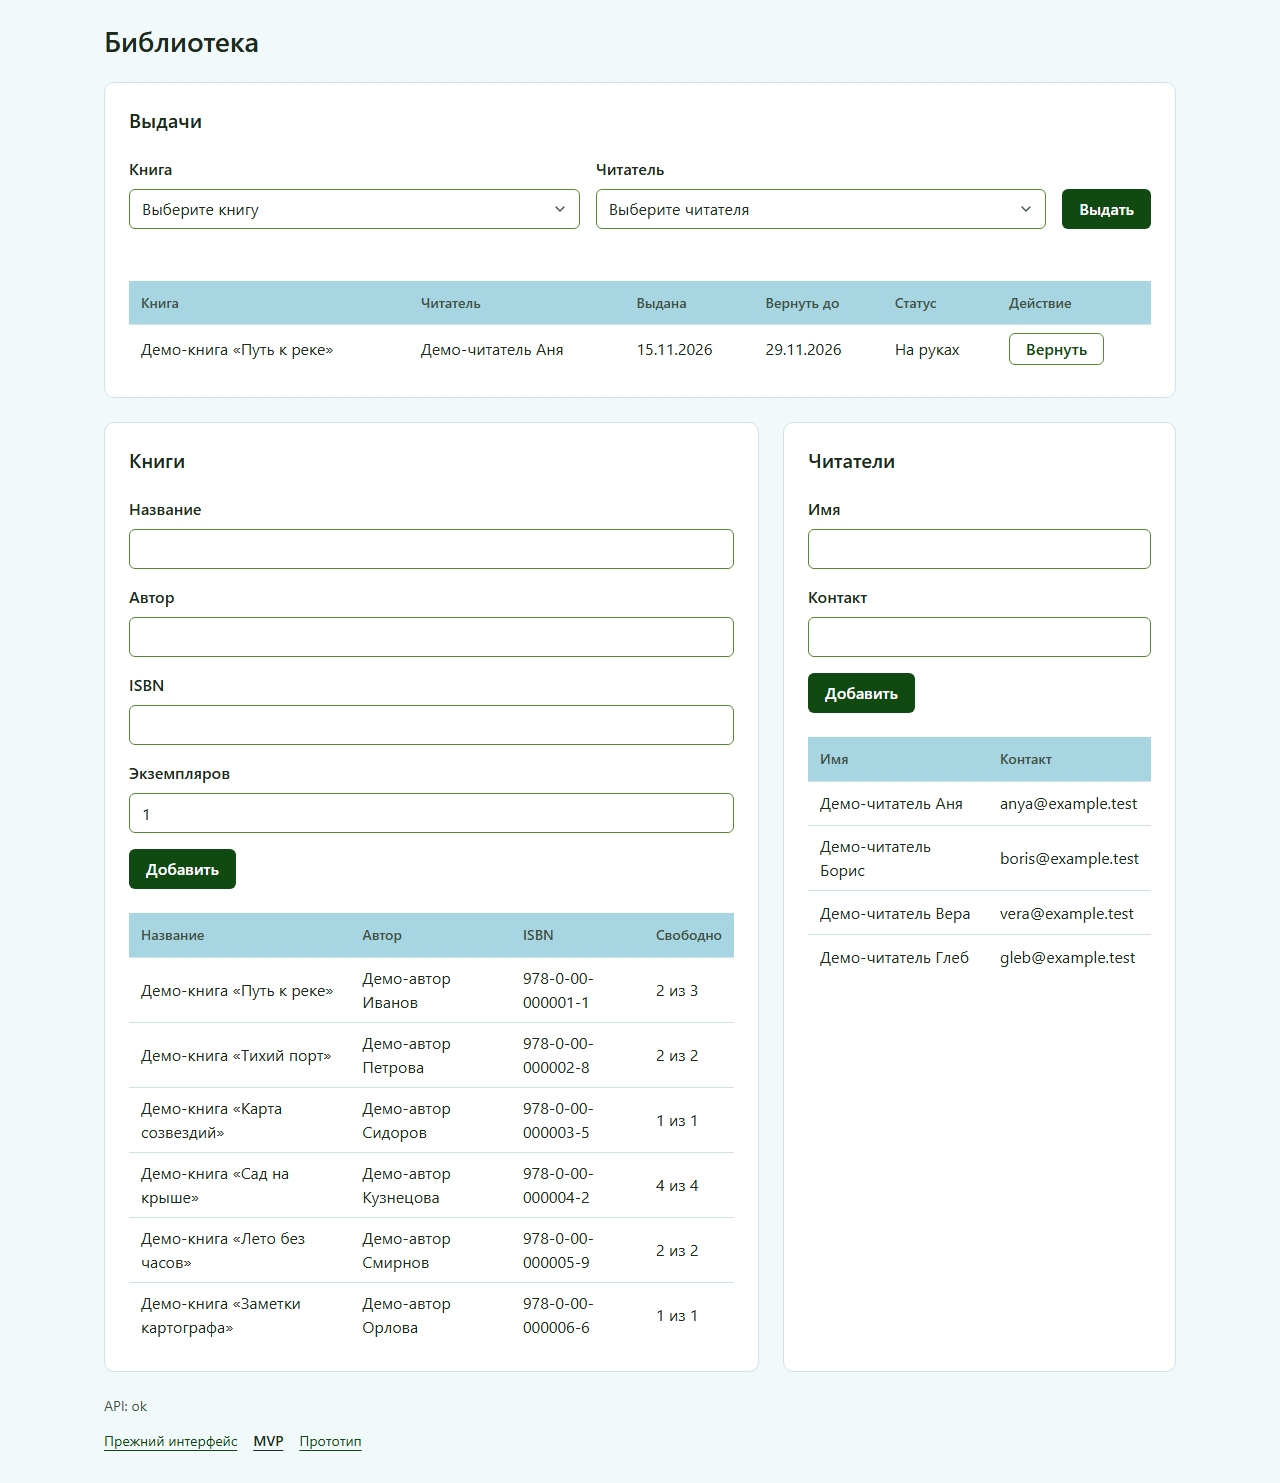
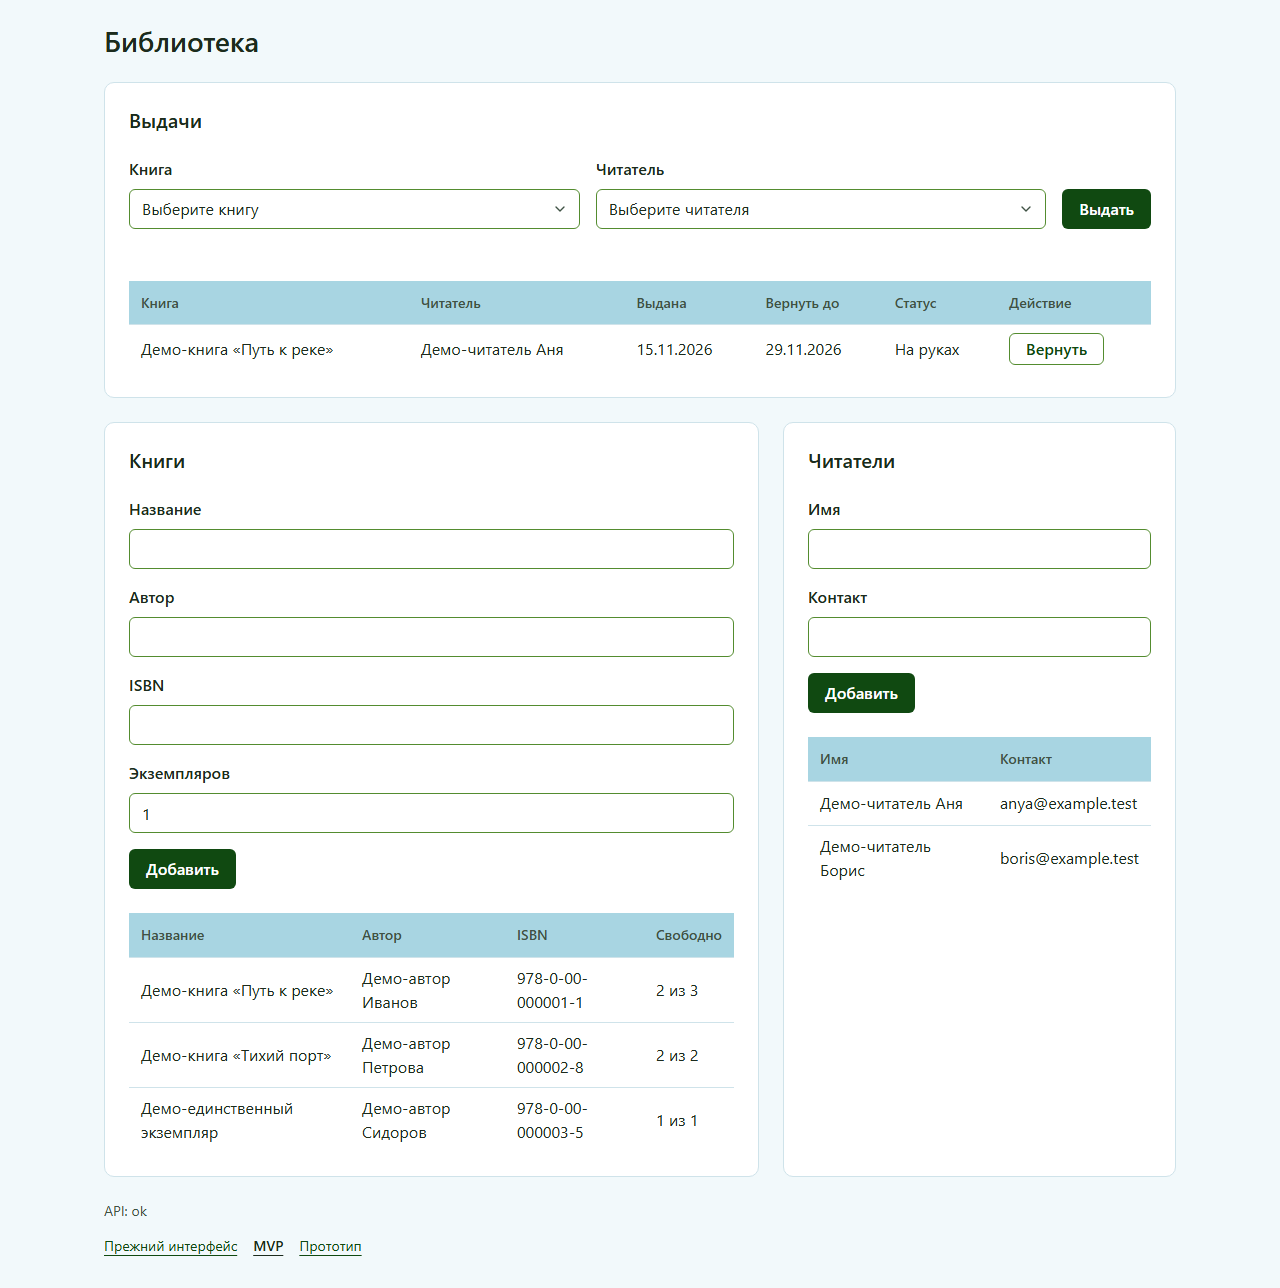
fix(07-08): тест снимков не зависит от seed и настоящих данных
- демо-записи создаются через API, списки на странице фильтруются по их id
- обычный npm run test:e2e на пустом файле данных снова зелёный
- снимки пересняты, в кадре только «Демо-…» и @example.test

diff --git a/tests/e2e/hw4-screenshots.spec.ts b/tests/e2e/hw4-screenshots.spec.ts
@@ -2,13 +2,15 @@ import { expect, test, type Page } from '@playwright/test';
 
 // Снимки MVP (/v2/) и прежнего интерфейса для README «Модуль 4».
 // Каталог test-results вне git; копии лежат в docs/screenshots/hw4-v2-*.png и hw4-old-links.png.
-// Запускать только на копии data/seed.json (T-07-21): перед каждым снимком все строки таблиц
-// книг, читателей и выдач содержат «Демо-», то есть в кадр попадают только данные seed и этого теста.
+// Тест создаёт свои демо-записи через API и показывает на страницах только их: GET-запросы списков
+// пропускают записи с id, полученными при создании. Поэтому он проходит на любом файле данных, а
+// в кадр не попадают настоящие данные (T-07-21). Перед каждым снимком все строки таблиц содержат
+// «Демо-» и контакты оканчиваются на @example.test.
 
 const OUT = 'test-results/hw4/final';
-const SINGLE_BOOK = 'Демо-единственный экземпляр';
 const BOOK_ONE = 'Демо-книга «Путь к реке»';
 const BOOK_TWO = 'Демо-книга «Тихий порт»';
+const SINGLE_BOOK = 'Демо-единственный экземпляр';
 const READER_ONE = 'Демо-читатель Аня';
 const READER_TWO = 'Демо-читатель Борис';
 
@@ -36,12 +38,60 @@ async function shoot(page: Page, name: string, fullPage: boolean) {
   await page.screenshot({ path: `${OUT}/${name}.png`, fullPage });
 }
 
+// Создаёт запись через API и запоминает её id
+async function create(
+  page: Page,
+  url: string,
+  data: Record<string, string | number>,
+  ids: Set<string>,
+) {
+  const response = await page.request.post(url, { data });
+  expect(response.status()).toBe(201);
+  const { id } = (await response.json()) as { id: string };
+  ids.add(id);
+}
+
 test('saves screenshots of v2 and links in the old interface', async ({ page }) => {
+  const bookIds = new Set<string>();
+  const readerIds = new Set<string>();
+
+  const books = [
+    { title: BOOK_ONE, author: 'Демо-автор Иванов', isbn: '978-0-00-000001-1', copies: 3 },
+    { title: BOOK_TWO, author: 'Демо-автор Петрова', isbn: '978-0-00-000002-8', copies: 2 },
+    { title: SINGLE_BOOK, author: 'Демо-автор Сидоров', isbn: '978-0-00-000003-5', copies: 1 },
+  ];
+  for (const book of books) await create(page, '/api/books', book, bookIds);
+  await create(page, '/api/readers', { name: READER_ONE, contact: 'anya@example.test' }, readerIds);
+  await create(
+    page,
+    '/api/readers',
+    { name: READER_TWO, contact: 'boris@example.test' },
+    readerIds,
+  );
+
+  await page.route('**/api/books', async (route) => {
+    if (route.request().method() !== 'GET') return route.fallback();
+    const response = await route.fetch();
+    const all = (await response.json()) as { id: string }[];
+    return route.fulfill({ json: all.filter((book) => bookIds.has(book.id)) });
+  });
+  await page.route('**/api/readers', async (route) => {
+    if (route.request().method() !== 'GET') return route.fallback();
+    const response = await route.fetch();
+    const all = (await response.json()) as { id: string }[];
+    return route.fulfill({ json: all.filter((reader) => readerIds.has(reader.id)) });
+  });
+  await page.route('**/api/loans', async (route) => {
+    if (route.request().method() !== 'GET') return route.fallback();
+    const response = await route.fetch();
+    const all = (await response.json()) as { bookId: string }[];
+    return route.fulfill({ json: all.filter((loan) => bookIds.has(loan.bookId)) });
+  });
+
   await page.setViewportSize({ width: 1280, height: 800 });
   await page.goto('/v2/');
 
   const loans = page.getByRole('region', { name: 'Выдачи', exact: true });
-  const books = page.getByRole('region', { name: 'Книги', exact: true });
   const loansTable = loans.getByRole('table', { name: 'Выдачи' });
 
   async function checkout(book: string, reader: string) {
@@ -50,8 +100,8 @@ test('saves screenshots of v2 and links in the old interface', async ({ page }) 
     await loans.getByRole('button', { name: 'Выдать' }).click();
   }
 
-  // Работа: одна выдача из seed-данных; страница открыта заново, без сообщений действий
-  await expect(books.getByRole('table', { name: 'Книги' })).toContainText('Демо-');
+  // Работа: одна выдача; страница открыта заново, без сообщений действий
+  await expect(page.getByRole('table', { name: 'Книги' })).toContainText(BOOK_ONE);
   await checkout(BOOK_ONE, READER_ONE);
   await expect(loans.getByRole('status')).toContainText('Выдано:');
   await page.goto('/v2/');
@@ -66,14 +116,6 @@ test('saves screenshots of v2 and links in the old interface', async ({ page }) 
   await shoot(page, 'hw4-v2-issued', true);
 
   // Отказ: единственный экземпляр уже на руках
-  const bookForm = books.getByRole('form', { name: 'Добавить книгу' });
-  await bookForm.getByLabel('Название').fill(SINGLE_BOOK);
-  await bookForm.getByLabel('Автор').fill('Демо-автор');
-  await bookForm.getByLabel('ISBN').fill('978-0-00-000098-4');
-  await bookForm.getByLabel('Экземпляров').fill('1');
-  await bookForm.getByRole('button', { name: 'Добавить' }).click();
-  await expect(books.getByRole('status')).toHaveText(`Книга «${SINGLE_BOOK}» добавлена`);
-
   await checkout(SINGLE_BOOK, READER_ONE);
   await expect(loans.getByRole('status')).toContainText(`Выдано: «${SINGLE_BOOK}»`);
   await checkout(SINGLE_BOOK, READER_TWO);

diff --git a/docs/memory.md b/docs/memory.md
@@ -7,11 +7,11 @@
 
 **Сделано.** `tests/e2e/release-checklist.spec.ts` (D-13): пять тестов, три на заголовок вкладки, ошибки консоли, `pageerror` и ответы от 400 для `/`, `/v2/`, `/prototype/`, два на ширину 375 px без горизонтальной прокрутки для `/v2/` и `/prototype/` (для `/` ширину не проверяем, D-04). Пути относительные, файл работает с `playwright.config.ts`, с `playwright.docker.config.ts` и с публичной ссылкой через `E2E_BASE_URL`. `tests/e2e/v2-main-flow.spec.ts` (D-11): книга, читатель, выдача, возврат на настоящем сервере, после каждого шага свой `role="status"`. `tests/e2e/hw4-screenshots.spec.ts` и пять снимков `docs/screenshots/hw4-v2-{work,issued,refusal,narrow-375}.png`, `hw4-old-links.png`; вместе со снимками прототипа 13 файлов `hw4-*.png`, на всех только «Демо-…» и `@example.test`. Проверка Docker ждёт автора (Task 3).
 
-**Решение.** Запросы к `fonts.googleapis.com` и `fonts.gstatic.com` прерываются, ошибки консоли и ответы с этих хостов не считаются; с `E2E_REAL_FONT=1` фильтра нет. Фильтр ошибок консоли смотрит на `message.location().url`, а не на текст: текст сетевой ошибки адреса не содержит. В основном сценарии GET книг, читателей и выдач проходят через `route.fetch()` и оставляют только записи теста, id выдачи запоминается на POST до ответа странице: тест не зависит от данных на сервере. Перед каждым снимком проверяется, что все строки таблиц содержат «Демо-».
+**Решение.** Запросы к `fonts.googleapis.com` и `fonts.gstatic.com` прерываются, ошибки консоли и ответы с этих хостов не считаются; с `E2E_REAL_FONT=1` фильтра нет. Фильтр ошибок консоли смотрит на `message.location().url`, а не на текст: текст сетевой ошибки адреса не содержит. В основном сценарии GET книг, читателей и выдач проходят через `route.fetch()` и оставляют только записи теста, id выдачи запоминается на POST до ответа странице: тест не зависит от данных на сервере. Тест снимков создаёт свои демо-записи через API и показывает только их (GET списков фильтруются по id): он проходит на любом файле данных, настоящие данные в кадр не попадают, перед каждым снимком все строки таблиц содержат «Демо-».
 
 **Дальше.** Автор проверяет Docker по списку из Task 3 плана 07-08; затем 07-09 (публичная ссылка) и 07-10 по ROADMAP.
 
-**Ловушки.** Playwright очищает `test-results/` в начале запуска, в том числе копию `data/seed.json`, положенную туда для прогона: копию на seed держать вне `test-results/`. Снимки делать с `--workers=1`: иначе основной сценарий пишет в тот же файл данных одновременно и его записи попадают в кадр. Снимки копировать из `test-results/hw4/final/` сразу после зелёного прогона.
+**Ловушки.** Playwright очищает `test-results/` в начале запуска, в том числе копию `data/seed.json`, положенную туда для прогона: копию на seed держать вне `test-results/`. Тест снимков не должен зависеть от seed: на пустом файле (обычный `npm run test:e2e`) он иначе падал. Снимки копировать из `test-results/hw4/final/` сразу после зелёного прогона.
 
 ## 2026-11-15 — ДЗ-4: план 07-07, прототип `/prototype/` на демо-данных (ветка `feat/mvp-prototype`)
 
